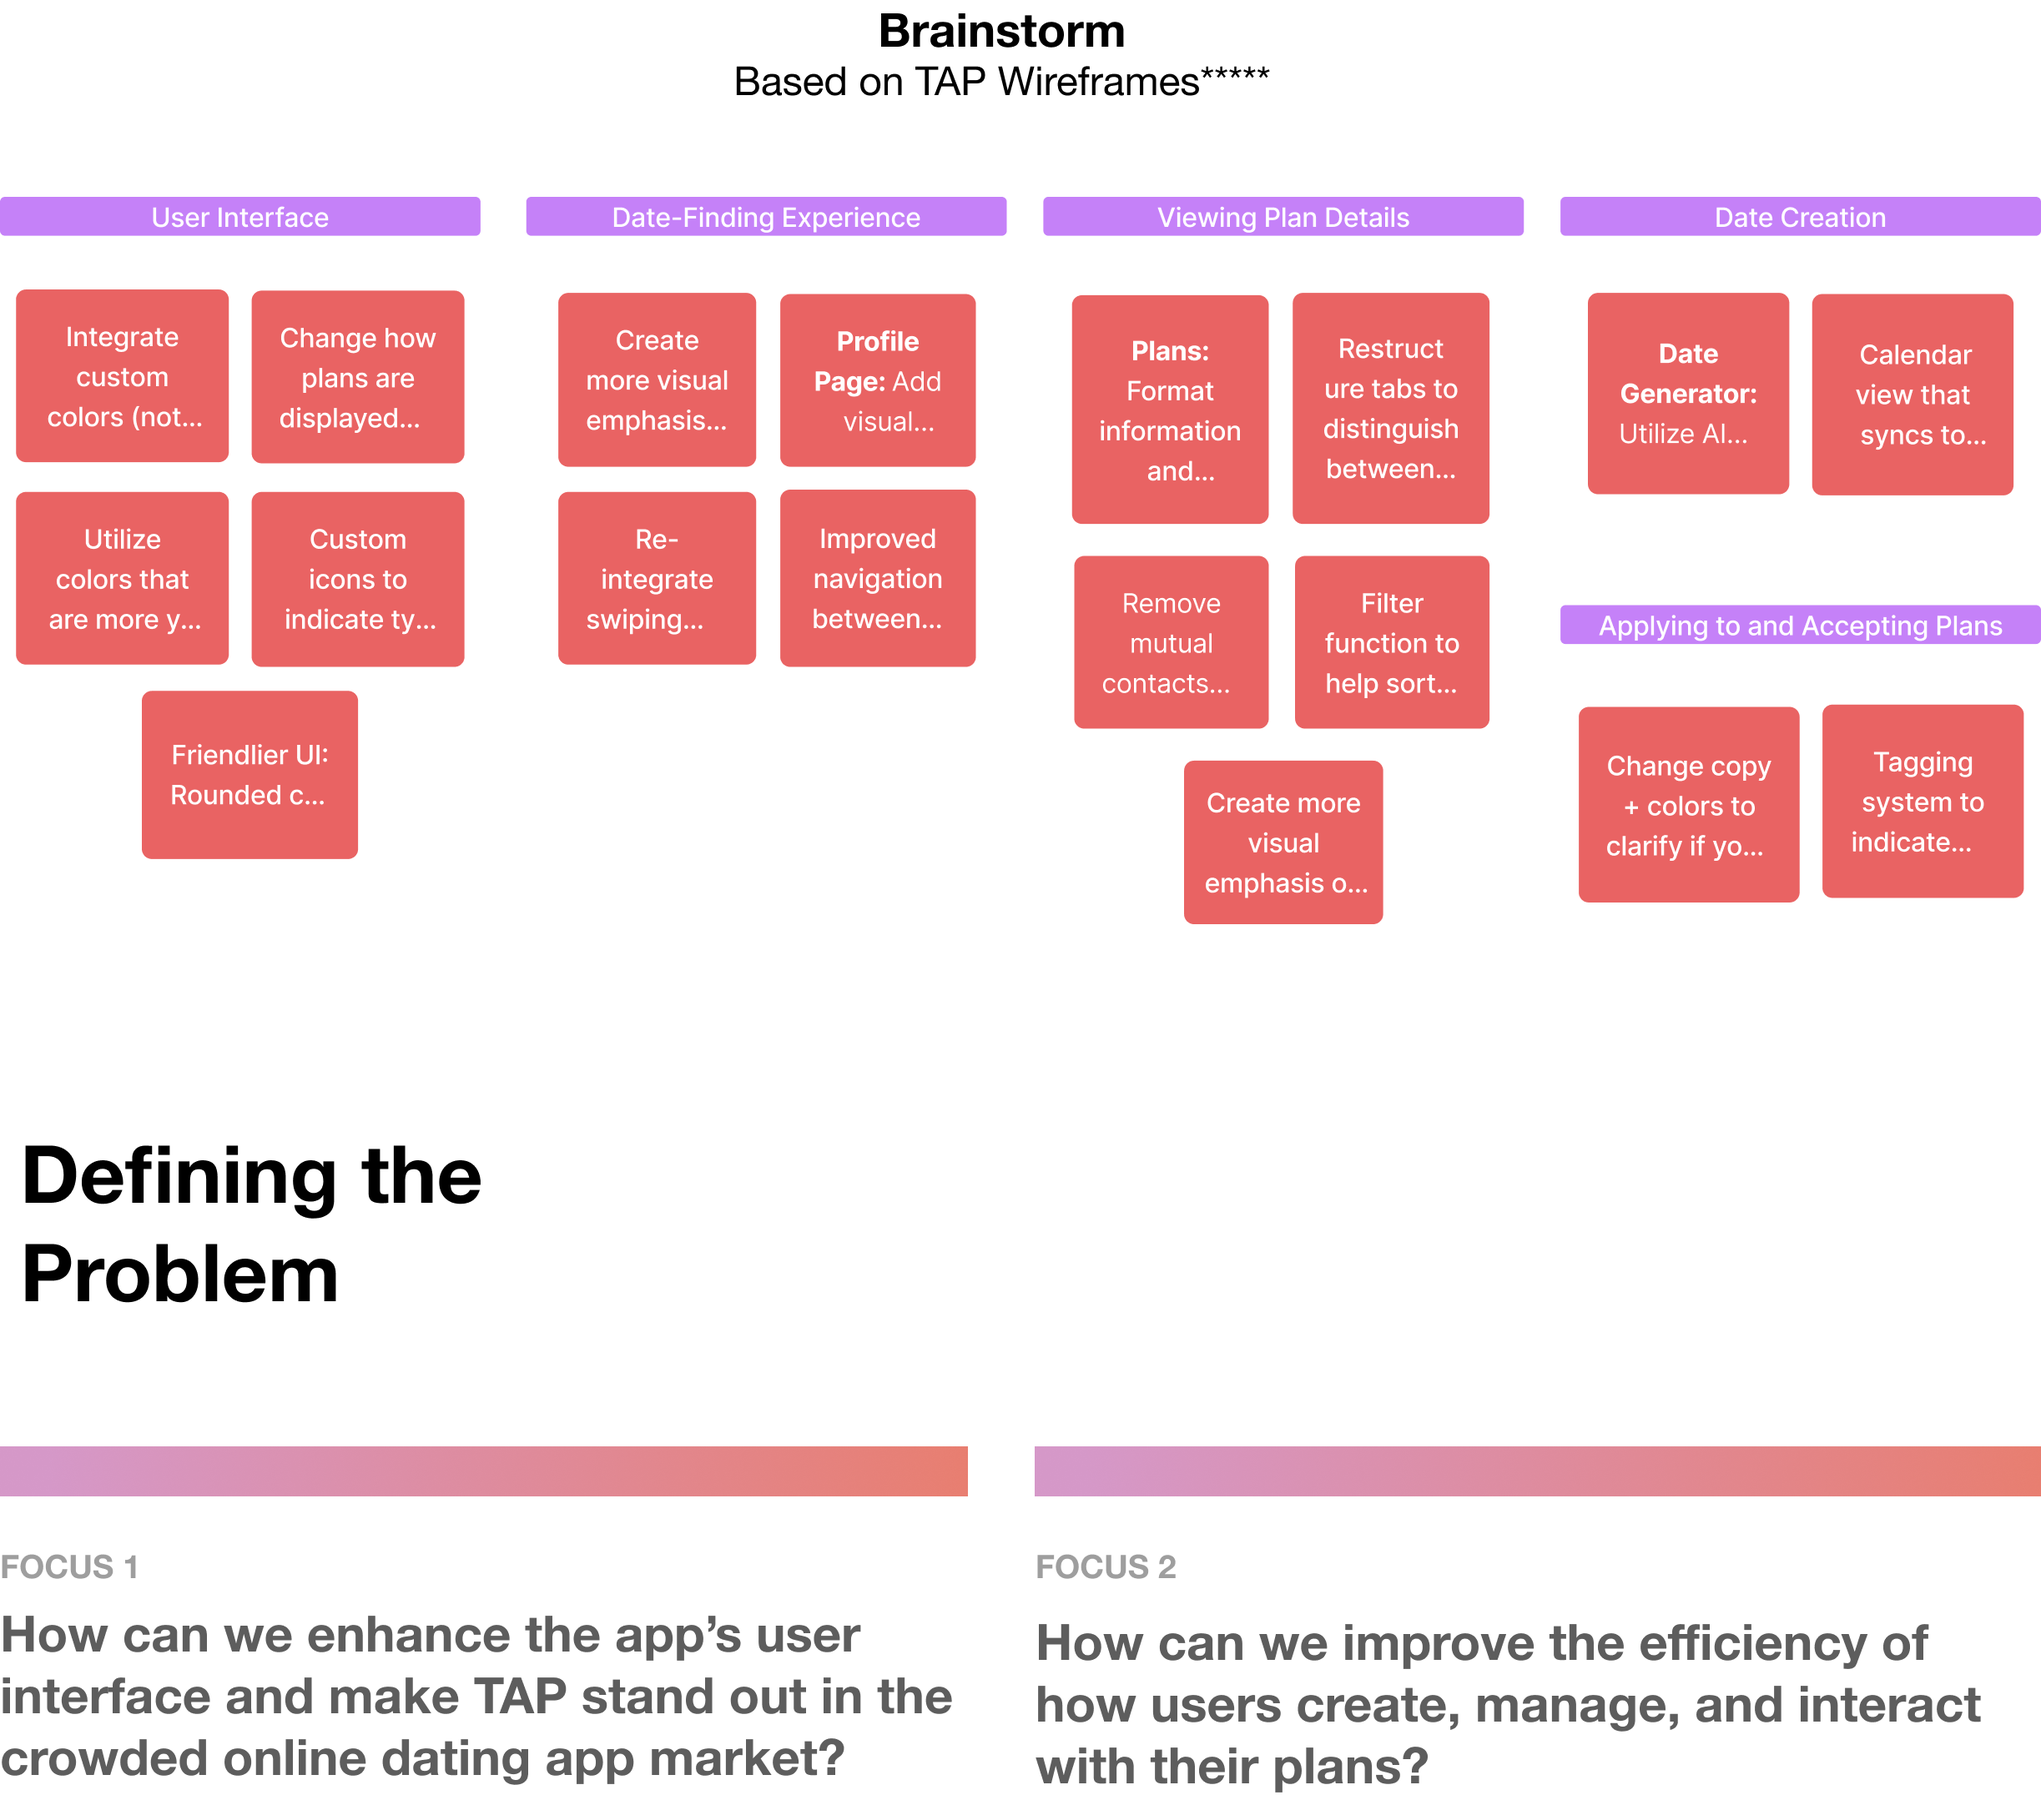
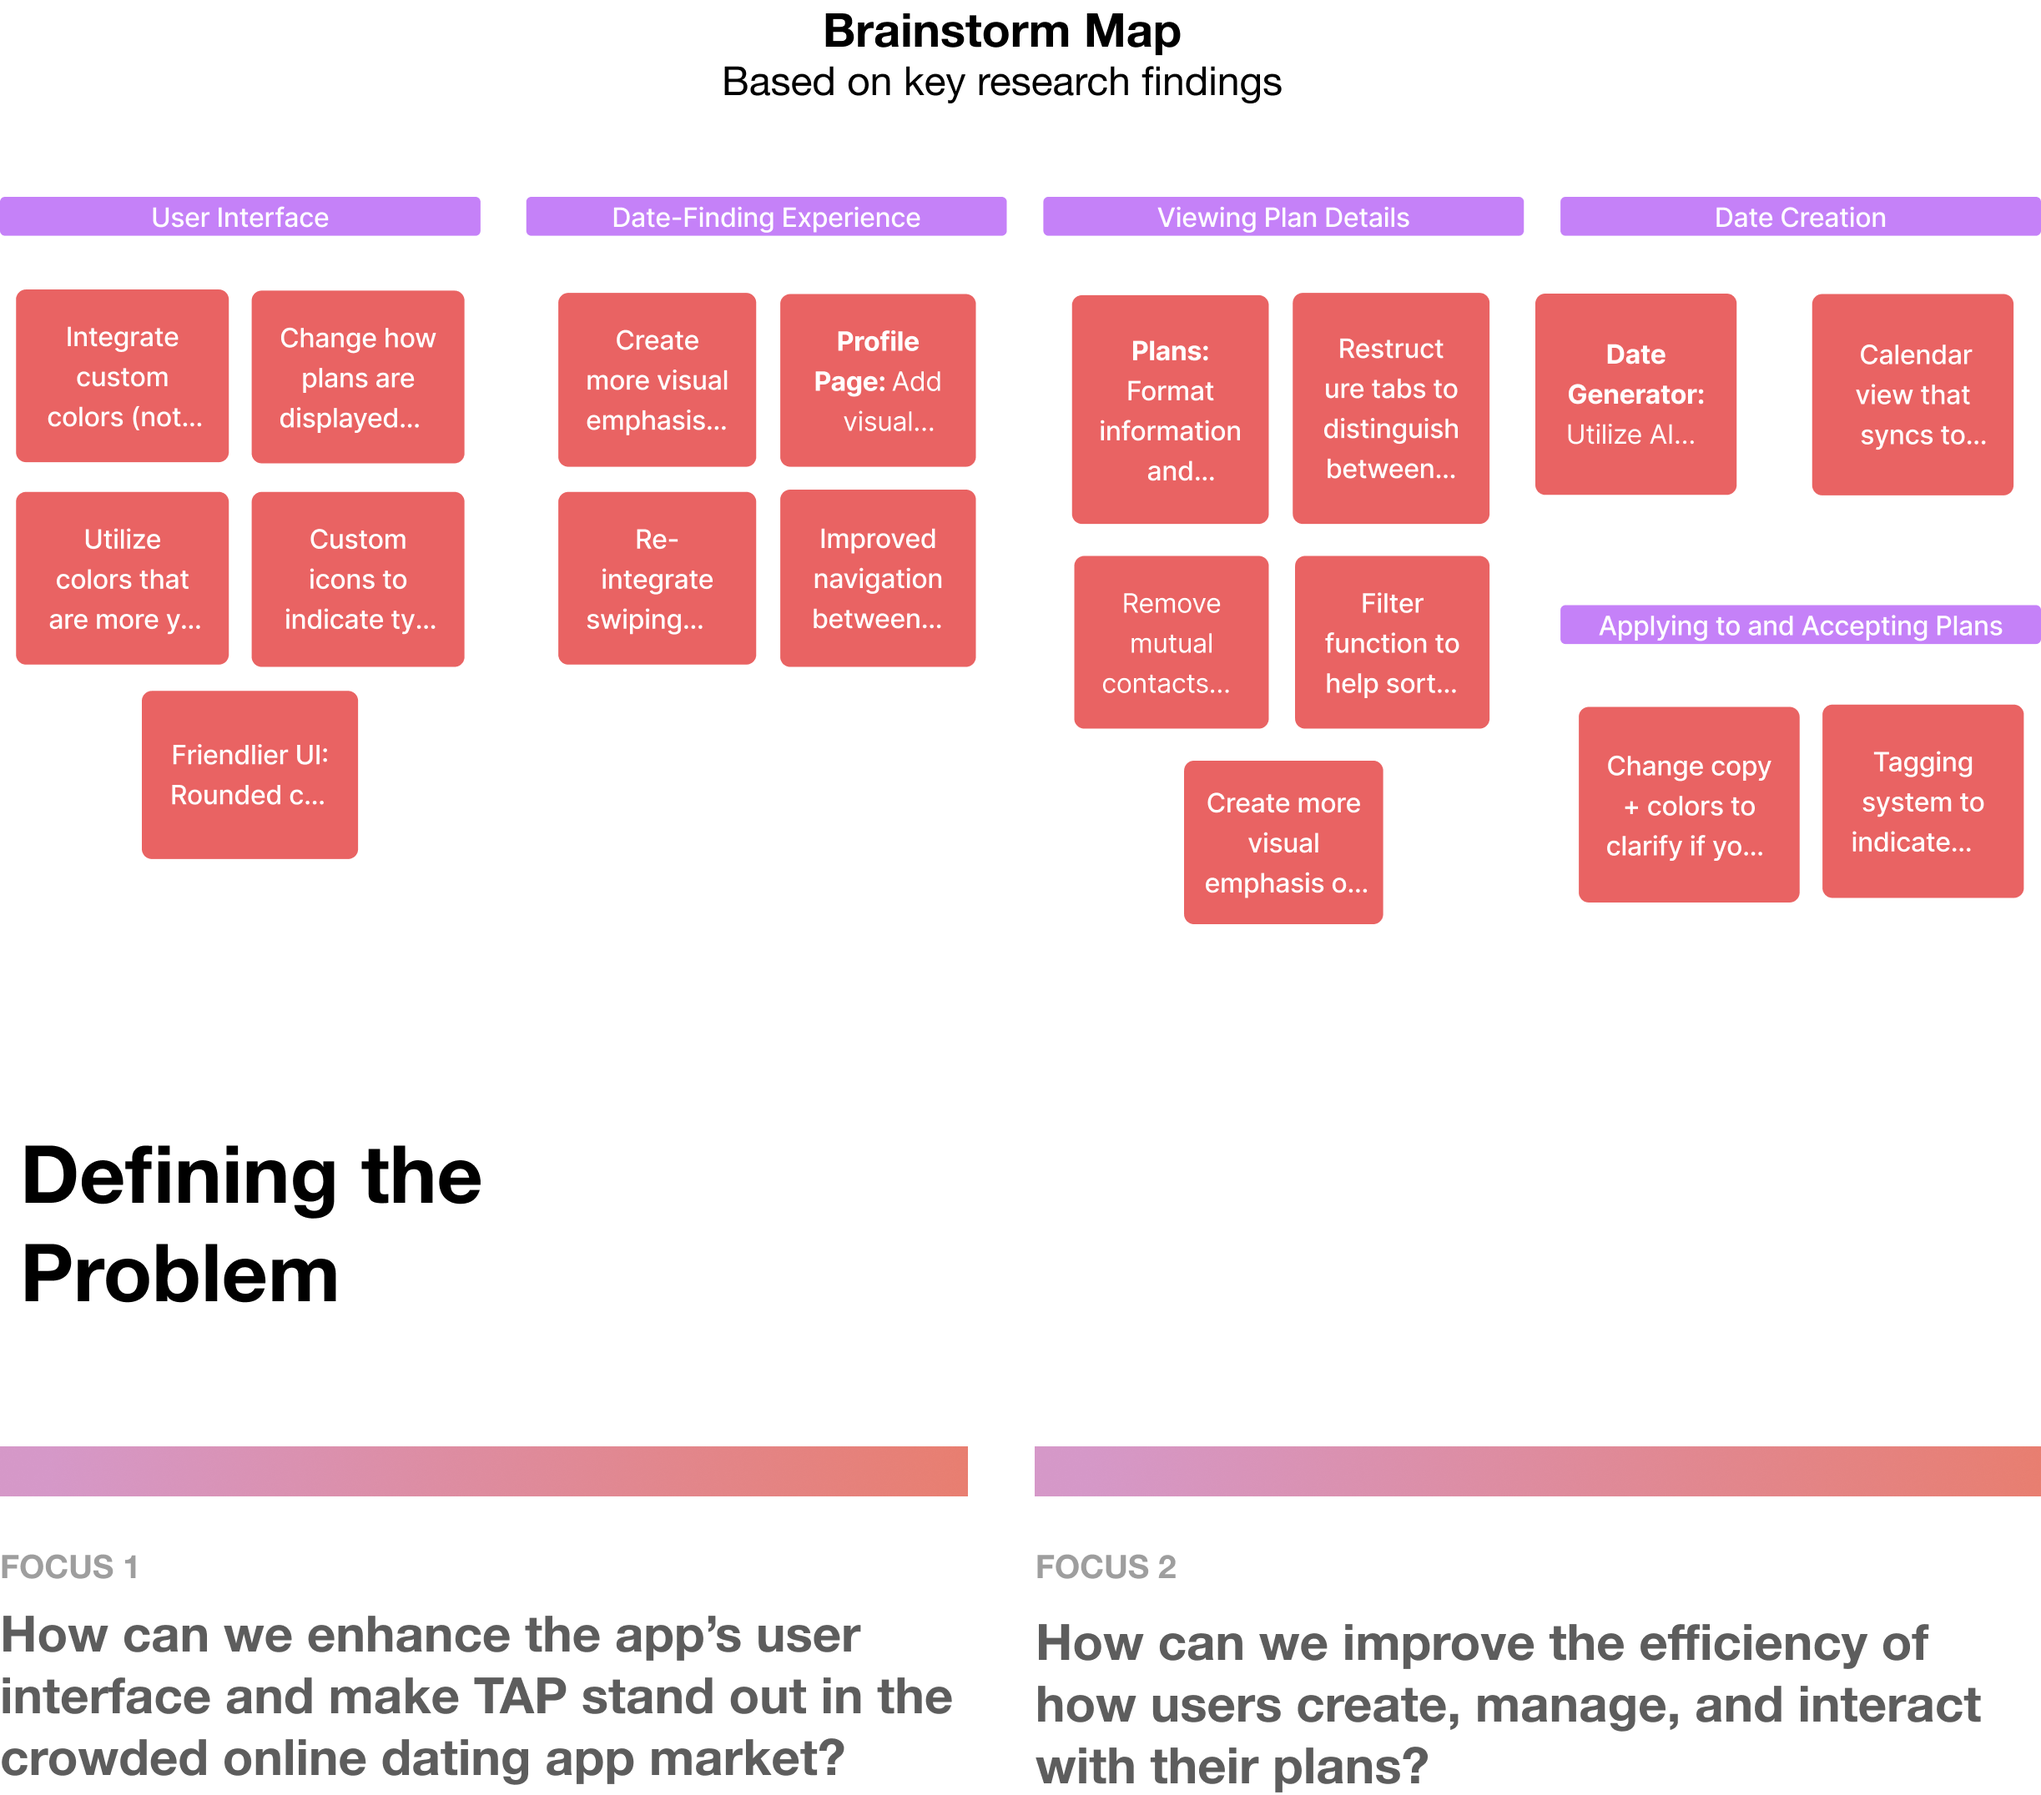
new project 4

Changed region(s): [[0.7457, 0.1557, 0.9011, 0.2802], [0.3418, 0.0, 0.6214, 0.0623]]

diff --git a/project4/project4.html b/project4/project4.html
@@ -93,7 +93,7 @@
       </div>
 
       <div class="probleminfo">
-        <p>We started by first conducting having usability testing using the Beta version of the app. We also had separate focus groups to test the wireframes of the app that had all the features of TAP. Based on all our key findings, we compiled our notes to define our problem.</p>
+        <p>Given the MVP, we first conducted usability tests with the Beta version of the app. We also hosted separate focus groups to test the wireframes of the app that contained all of the features of the app, including those not present in the Beta version. Based on our key findings, we compiled our notes to define out problem.</p>
       </div>
   </div>
 </div>
@@ -117,7 +117,7 @@
       </div>
 
       <div class="probleminfo">
-        <p>We started by first conducting having usability testing using the Beta version of the app. We also had separate focus groups to test the wireframes of the app that had all the features of TAP. Based on all our key findings, we compiled our notes to define our problem.</p>
+        <p>After consolidating our findings from the initial product, we conducted competitor analysis of other mobile dating apps, created empathy maps for our user person, and developed brainstorms of our ideas. Our methodology helped us break down our problem into two areas.</p>
       </div>
   </div>
 </div>
@@ -153,6 +153,13 @@
       <img class="assets5" src="img/ogplans.png" alt="og plans wireframes">
     </div>
 
+    <div id="parttwo">
+      <img class="assets5" src="img/ogplans2.png" alt="og plans wireframes 2">
+    </div>
+
+    <div id="parttwo">
+      <img class="assets5" src="img/ogplans3.png" alt="og plans wireframes 3">
+    </div>
 
 
 
@@ -172,6 +179,35 @@
 
 
 
+
+
+
+
+
+
+
+
+
+
+
+<!-- Next Projects -->
+<div id="nextproject">
+  <a href="../project3/project3.html"><div class="next">
+    <img class="arrow" src="../img/arrow.png" alt="arrow">  
+    <div style="padding-left: 20px;">
+      <h1 class="projectname">Ethos Health</h1>   
+      <p class="viewnextproject">View Previous Project</p>    
+    </div>
+  </div></a>
+
+  <a href="../project2/project2.html"><div class="next2">
+    <div style="padding-right: 20px;">
+      <h1 class="projectname">The Ripped Boddice</h1>   
+      <p class="viewnextproject">View Next Project</p>   
+    </div> 
+    <img class="arrow2" src="../img/arrow2.png" alt="arrow">  
+  </div></a>
+</div>
 
 
 <div id="footer">

diff --git a/css/navbar.css b/css/navbar.css
@@ -199,4 +199,5 @@ html{
 }
 
 .next2:hover .projectname {
+	color: blueviolet;
 }
